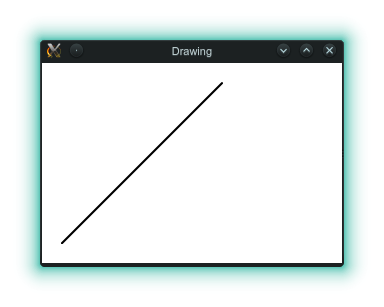
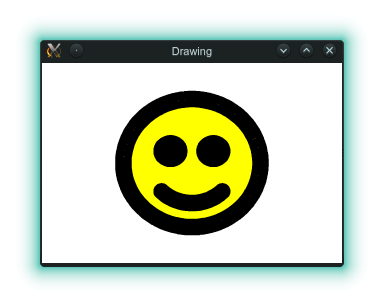
docs

diff --git a/README.md b/README.md
@@ -35,9 +35,21 @@ julia> Pkg.add("Drawing")
 
 julia> using Drawing
 
-julia> draw() do
-           line(1, 1)
-       end
+julia> with(Axes(centred=true), Pen(0.2)) do
+		   paint(Ink("yellow")) do
+			   circle(0.8)
+		   end
+		   draw() do
+			   circle(0.8)
+			   circle(0.5; from=-3pi/4, to=-pi/4)
+		   end
+		   paint() do
+			   move(0.25, 0.15)
+			   circle(0.2)
+			   move(-0.25, 0.15)
+			   circle(0.2)
+		   end
+	   end
 Press RETURN to close window
 ```
 
@@ -119,7 +131,7 @@ the scope, from left to right.
   to the given path.
 
 * `TK(width_px, height_px; name="Drawing", destroy=true)` initializes a Cairo
-  context associated with a Tk window, which is displated at the end of the
+  context associated with a Tk window, which is displayed at the end of the
   scope.  If `dstroy=true` then the user is asked to press return, after which
   the window is destroyed; if it is false then there is no prompt and the
   window remains on the screen (until the window is closed by the user or
@@ -203,6 +215,10 @@ Currently, all actions affect the Cairo path.
 
 * `line(x, y)` creates a straught line path between the current point and the
   given point, in user coordinates.
+
+* `circle(radius; from=0, to=2pi)` create a circle centred at the current
+  point, with a given radius.  Setting `from` and `to` to smaller angles
+  creates an arc (incomplete circle).
 
 # Raw Cairo
 
